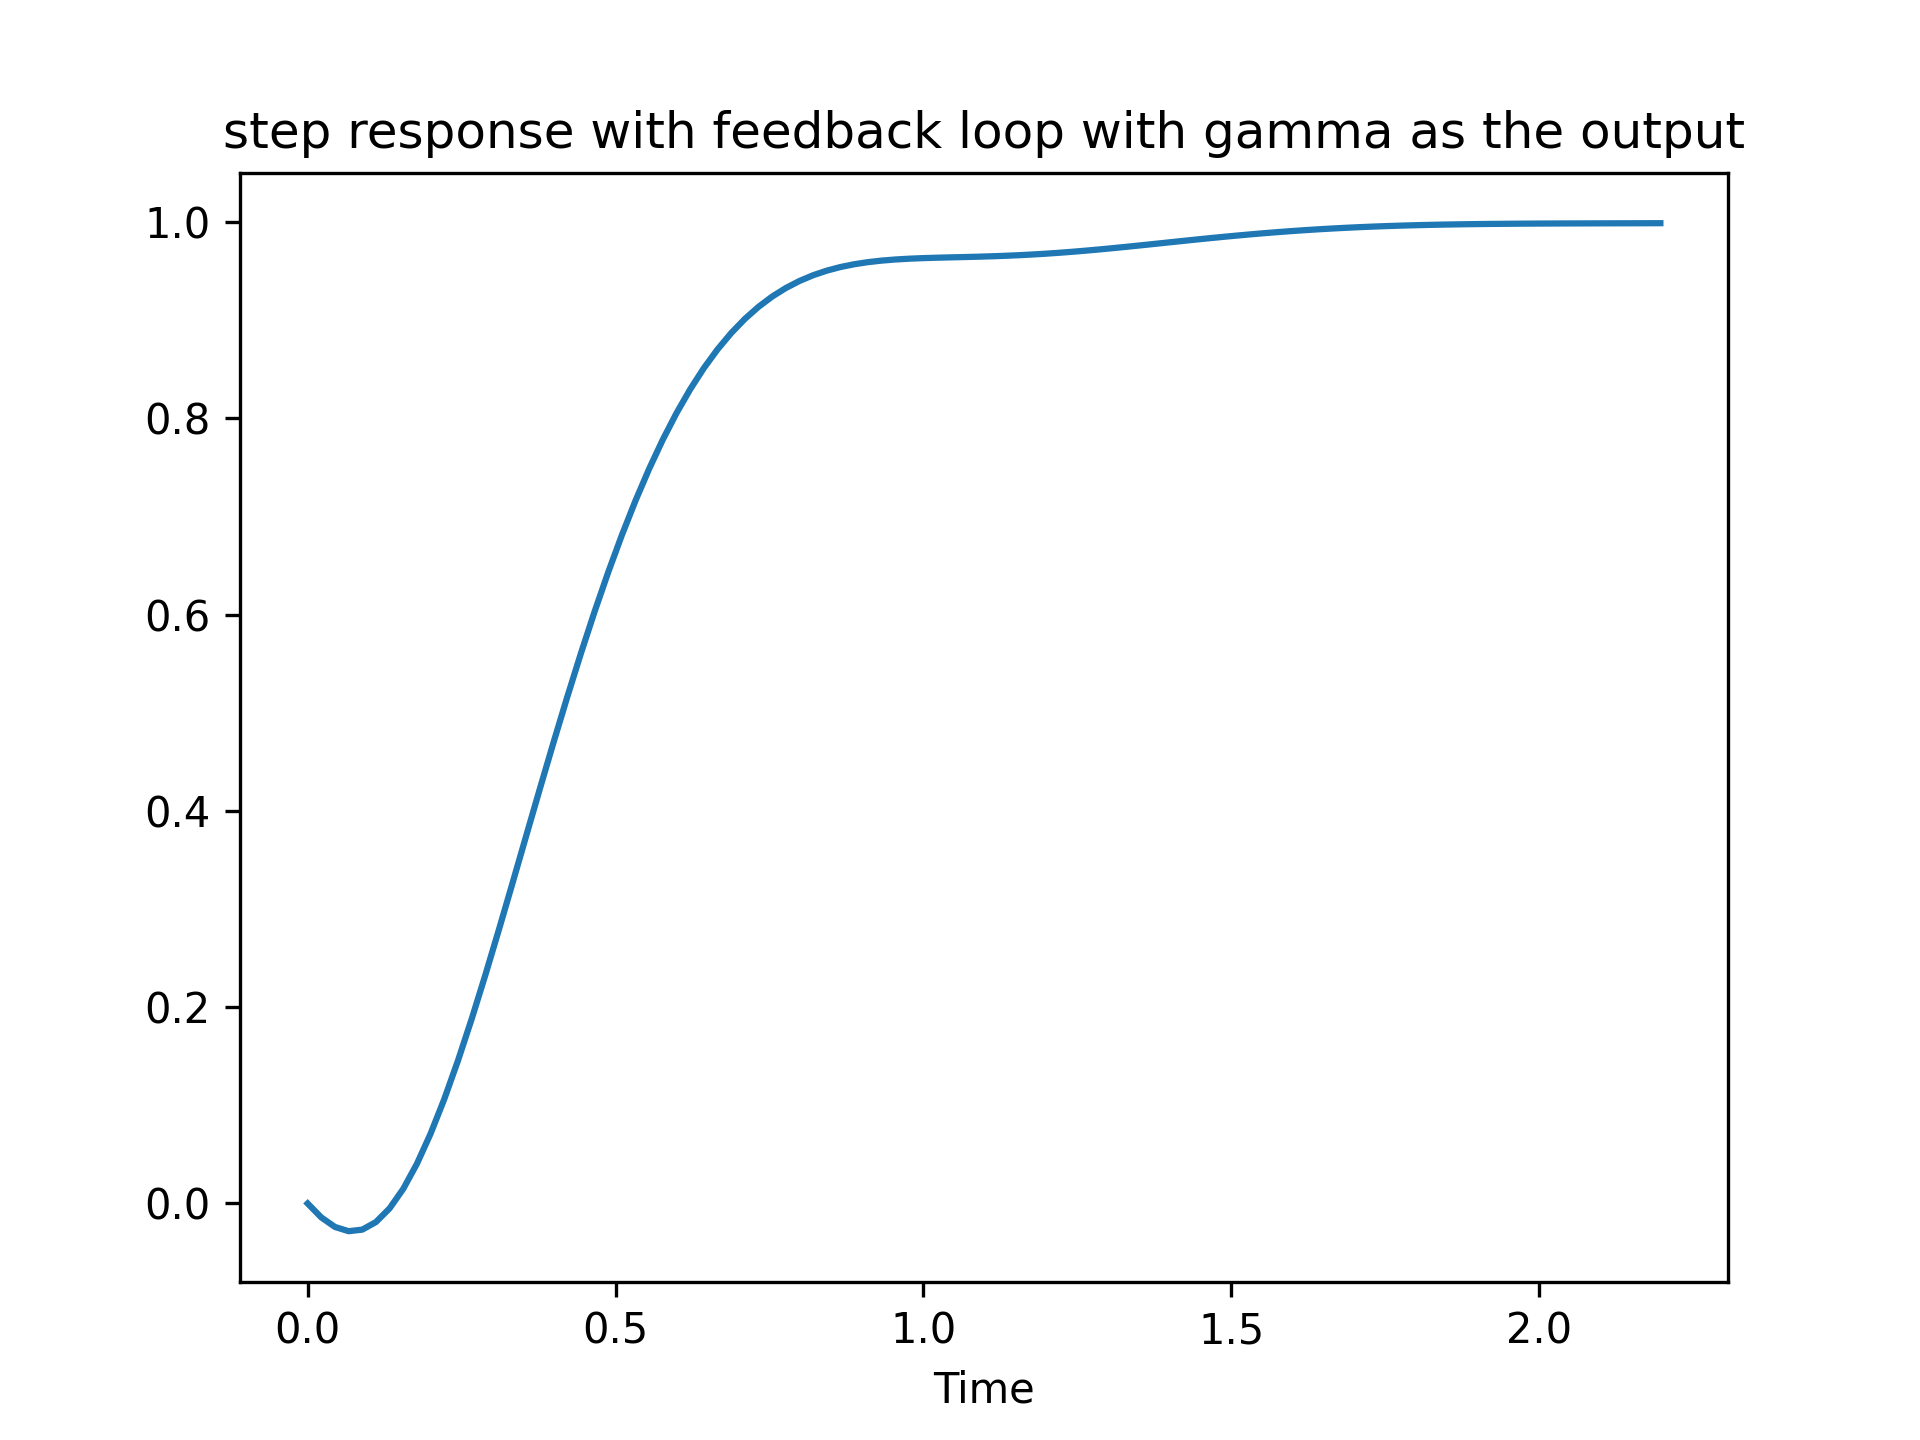
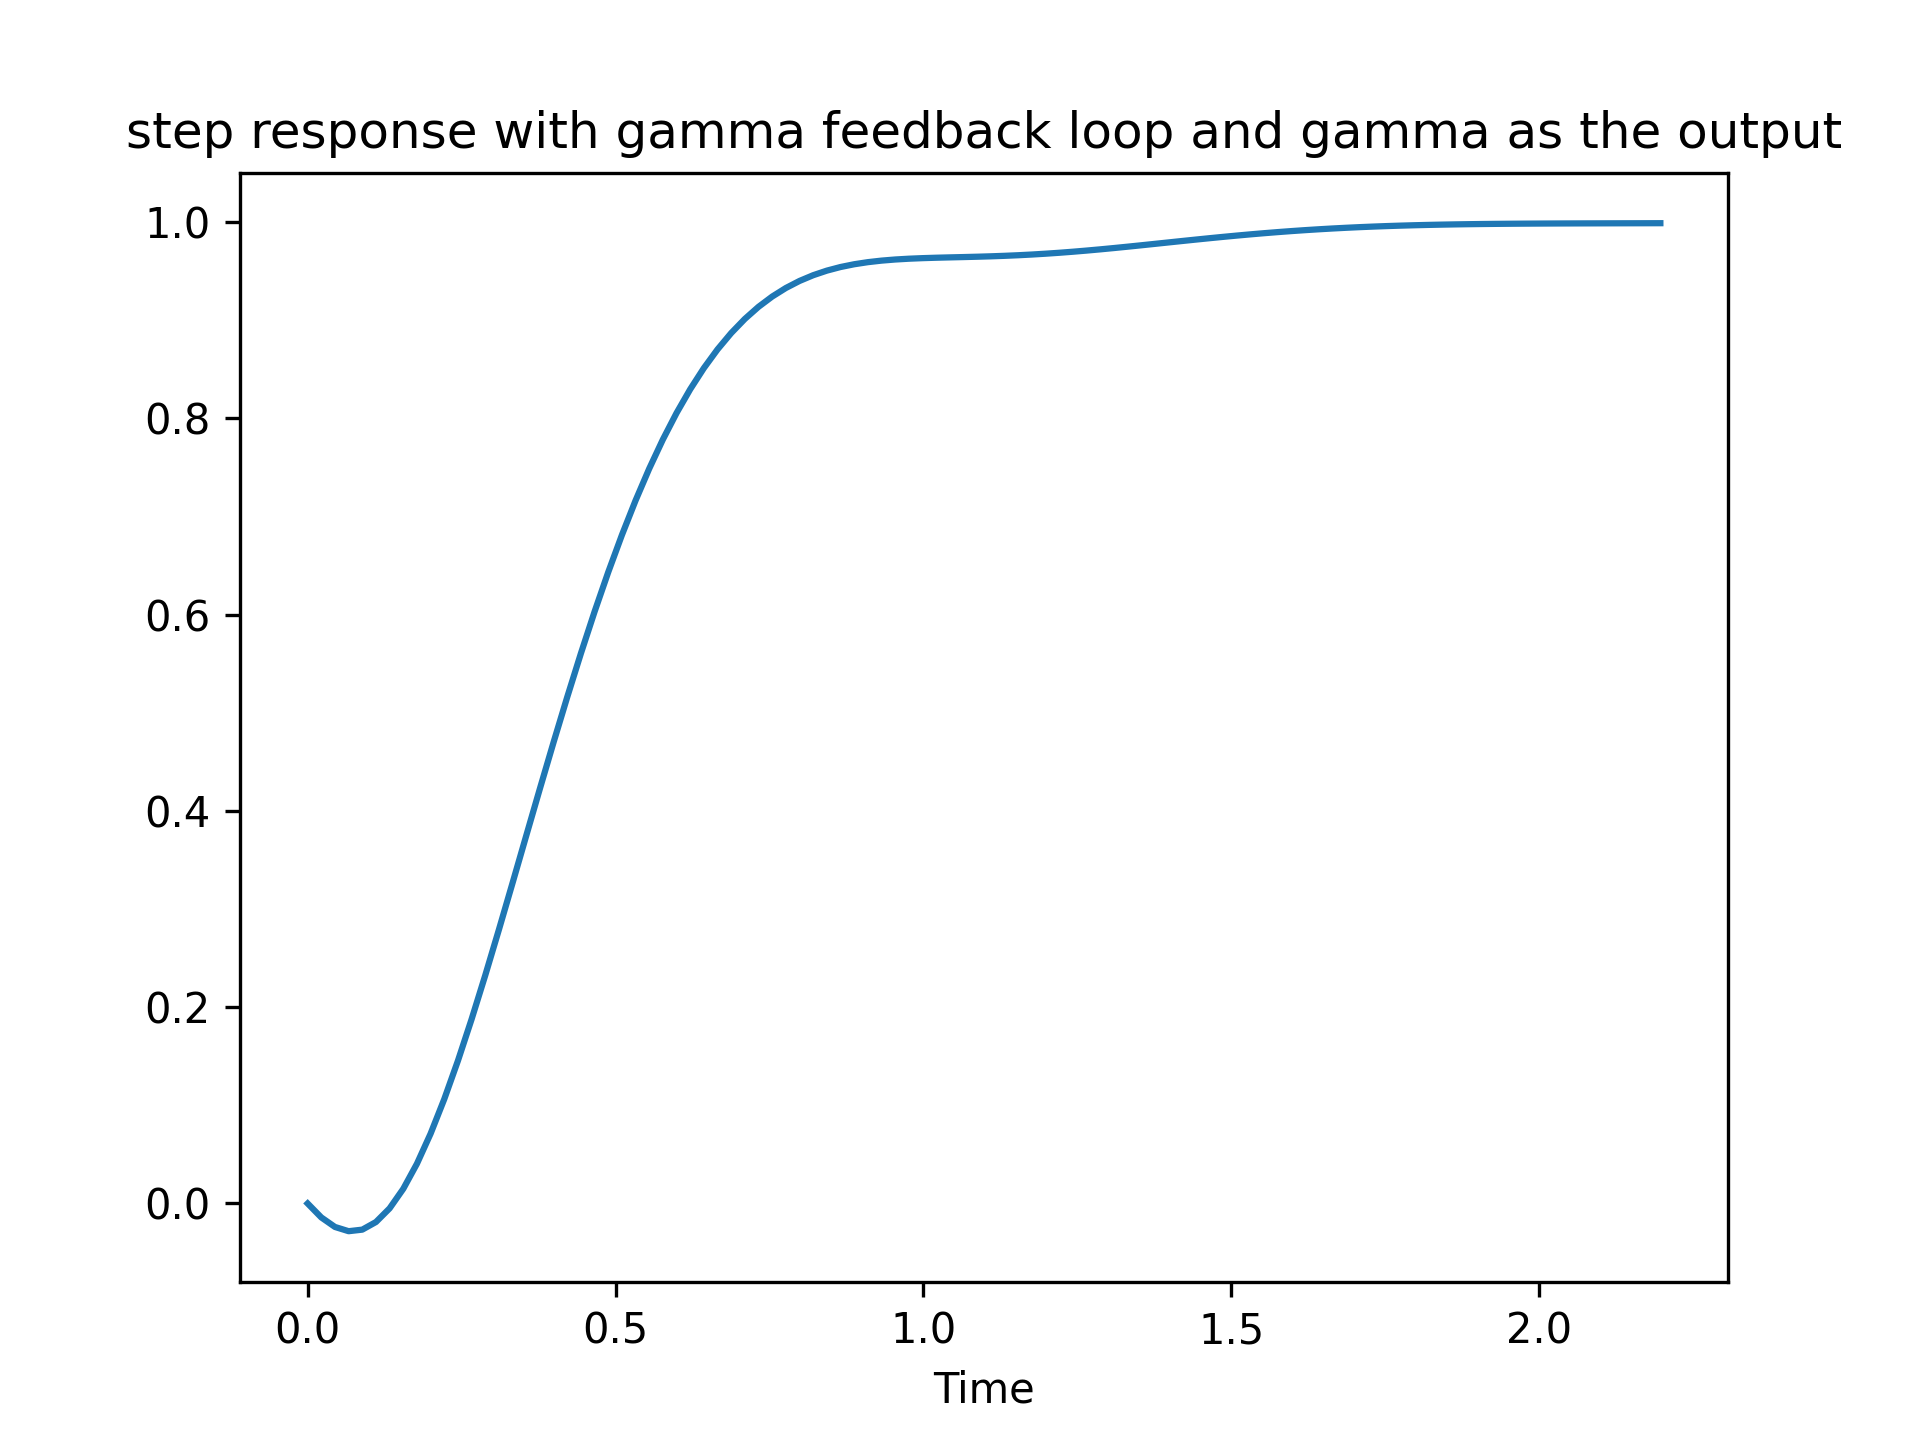
Flight management

Changed region(s): [[0.0625, 0.0625, 0.9375, 0.125]]

diff --git a/TP_Pilotage.py b/TP_Pilotage.py
@@ -359,7 +359,7 @@ Y_gamma, T_gamma = control.matlab.step(Tf_feedback_gamma)
 plt.figure()
 plt.plot(T_gamma, Y_gamma)
 plt.xlabel('Time')
-plt.title("step response with feedback loop with gamma as the output")
+plt.title("step response with gamma feedback loop and gamma as the output")
 plt.savefig('Plots/gamma_feedback_step_response.png', dpi=300)
 
 
@@ -390,5 +390,89 @@ Y_z, T_z = control.matlab.step(Tf_feedback_z)
 plt.figure()
 plt.plot(T_z, Y_z)
 plt.xlabel("Time")
-plt.title("step response with feedback loop with Z as the output")
+plt.title("step response with Z feedback loop and Z as the output")
 plt.savefig('Plots/z_feedback_step_response.png', dpi=300)
+
+
+"""
+print('\n\n\n------------------------------------------------------------------')
+print('------ Saturation in the gamma control loop ---------')
+#Saturation of the gamma feedback loop
+#State space between gamma_ac and alpha ?
+
+A_alpha = Aq - K_gamma * Bq * np.array([0, 1, 0, 0, 0])
+B_alpha = K_gamma * Bq
+
+
+print('\nTransfer function of the system with gamma feedback loop and alpha as the output :\n')
+Tf_feedback_alpha = ss2tf(ss(A_alpha, B_alpha, np.array([0, 1, 0, 0, 0]), 0))
+print(Tf_feedback_alpha)
+
+control.matlab.damp(Tf_feedback_alpha)
+
+Y_alpha, T_alpha = control.matlab.step(Tf_feedback_alpha)
+plt.figure()
+plt.plot(T_alpha, Y_alpha)
+plt.xlabel('Time')
+plt.title("step response with gamma feedback loop and alpha as the output")
+plt.savefig('Plots/alpha_feedback_step_response.png', dpi=300)
+
+"""
+
+
+
+
+
+print('\n\n\n------------------------------------------------------------------')
+print('------ Flight Management ---------')
+
+
+initial_altitude = 10000
+level_altitude = 12800
+flare_start_altitude = 200
+duration = 1000
+
+def flare(t):
+    tau = 5
+    return flare_start_altitude * np.exp(-t/tau)
+
+# create the steady ascent profile
+command_ascent = np.linspace(start=initial_altitude, stop=level_altitude, num=50)
+# create the level flight profile
+command_level_flight = np.linspace(start=level_altitude, stop=level_altitude, num=50)
+# create the descent profile
+command_descent = np.linspace(start=level_altitude, stop=flare_start_altitude + 38, num=200)
+# create the flare profile
+command_flare = np.ones(50) * [flare(t) for t in range(50)]
+
+# assemble the commands in a single list of points
+total_command = np.concatenate((command_ascent, command_level_flight, command_descent, command_flare), axis=0)
+
+# create the time vector, same length as the sum of all the commands
+sim_time = np.linspace(start=0, stop=duration, num=350)
+
+
+# compute the response of the system
+Y_out, T_out, X_out = control.matlab.lsim(ss(A_z, B_z, np.eye(5), 0), U=total_command,T=sim_time, X0=[0, 0, 0, 0, initial_altitude])
+
+
+plt.figure()
+#plt.plot(sim_time, Y_out[:,0], label="gamma")
+#plt.plot(sim_time, Y_out[:,1], label="alpha")
+#plt.plot(sim_time, Y_out[:,2], label="q")
+#plt.plot(sim_time, Y_out[:,3], label="theta")
+plt.plot(sim_time, total_command, label="command")
+plt.plot(sim_time, Y_out[:,4], label="response")
+plt.legend()
+plt.ylabel("altitude in feet")
+plt.xlabel("time in seconds")
+plt.title("Evolution of the altitude Z")
+plt.savefig("Plots/simulation.png", dpi=300)
+
+plt.figure()
+plt.plot(sim_time, np.degrees(Y_out[:,0]), label="gamma")
+plt.ylabel("angle in degrees")
+plt.xlabel("time in seconds")
+plt.title("Evolution of the glide slope gamma")
+plt.savefig("Plots/glide_slope.png")
+
